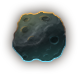
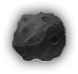
Asteroids are now colored according to team.

diff --git a/client/js/entities/asteroid.js b/client/js/entities/asteroid.js
@@ -1,4 +1,6 @@
 var astroid_assets = ["assets/astroid_1.png", "assets/astroid_2.png", "assets/astroid_3.png", "assets/astroid_4.png"]
+var astroid_assets_t0 = ["assets/astroid_1_t0.png", "assets/astroid_2_t0.png", "assets/astroid_3_t0.png", "assets/astroid_4_t0.png"]
+var astroid_assets_t1 = ["assets/astroid_1_t1.png", "assets/astroid_2_t1.png", "assets/astroid_3_t1.png", "assets/astroid_4_t1.png"]
 
 Asteroid.prototype = Object.create(Particle.prototype);
 Asteroid.prototype.constructor = Asteroid;
@@ -12,15 +14,32 @@ function Asteroid(eid, state) {
 }
 
 Asteroid.prototype.init_draw = function(state) {
+	this.asset_index = Math.floor(Math.random()*astroid_assets.length);
 	this.drawable = canvas.display.image({
 		x: this.x,
 		y: this.y,
 		origin: {x: "center", y: "center"},
-		image: astroid_assets[Math.floor(Math.random()*astroid_assets.length)],
+		image: astroid_assets[this.asset_index],
 		width: 2*state.r,
-		height: 2*state.r,
-		shadow: "0px 0px 100px #ecaf4f"
+		height: 2*state.r
 		}).add();
+	this.drawable_t0 = canvas.display.image({
+		x: this.x,
+		y: this.y,
+		origin: {x: "center", y: "center"},
+		image: astroid_assets_t0[this.asset_index],
+		width: 2*state.r,
+		height: 2*state.r
+		}).add();
+	this.drawable_t1 = canvas.display.image({
+		x: this.x,
+		y: this.y,
+		origin: {x: "center", y: "center"},
+		image: astroid_assets_t1[this.asset_index],
+		width: 2*state.r,
+		height: 2*state.r
+		}).add();
+	this.drawable.image = this.updateImage(state.team);
 
 	this.drawable.rotateTo(Math.random()*360);
 }
@@ -28,6 +47,8 @@ Asteroid.prototype.init_draw = function(state) {
 Asteroid.prototype.draw = function() {
 	Particle.prototype.draw.call(this);
 	this.drawable.moveTo(this.x, this.y);
+	this.drawable_t0.moveTo(this.x, this.y);
+	this.drawable_t1.moveTo(this.x, this.y);
 }
 
 Asteroid.prototype.replicate = function(state) {
@@ -36,11 +57,20 @@ Asteroid.prototype.replicate = function(state) {
 	this.y = state.y;
     this.r = state.r;
 
-    if(state.active || true) {
-    	particles.spawn(this.x + (0.5 - Math.random())*state.r, this.y + (0.5 - Math.random())*state.r, state.velocity.x/100, state.velocity.y/100, 1.5+Math.random(), 300 + 200*Math.random(), "#ecaf4f");
+    this.drawable.image = this.updateImage(state.team);
+    if(state.team != null) {
+    	particles.spawn(this.x + (0.5 - Math.random())*state.r, this.y + (0.5 - Math.random())*state.r, state.velocity.x/100, state.velocity.y/100, 1.5+Math.random(), 300 + 200*Math.random(), team_colors[state.team%2]);
     }
 }
 
 Asteroid.prototype.destroy = function() {
 	this.drawable.remove();
+	this.drawable_t1.remove();
+	this.drawable_t2.remove();
+}
+
+Asteroid.prototype.updateImage = function(team) {
+	this.drawable.opacity = (team == null) ? 1 : 0;
+	this.drawable_t0.opacity = (team == 0) ? 1 : 0;
+	this.drawable_t1.opacity = (team == 1) ? 1 : 0;
 }

diff --git a/client/js/entities/tether_node.js b/client/js/entities/tether_node.js
@@ -20,6 +20,10 @@ TetherNode.prototype.init_draw = function(state) {
 	this.left_drawable = null;
 	this.right_drawable = null;
 
+	if(!state.team) {
+		state.team = 0;
+	}
+
 	if(this.left_eid in world_state) {
 		if(world_state[this.left_eid].entity_type == "player") {
 			this.left_drawable = canvas.display.line({
@@ -27,7 +31,7 @@ TetherNode.prototype.init_draw = function(state) {
 		        end: { x: this.x, y: this.y },
 		        stroke: "4px #ecaf4f",
 		        cap: "round",
-		        shadow: "0px 0px 6px #ecaf4f"
+		        shadow: "0px 0px 6px " + team_colors[state.team]
     		}).add();
 		}
 	}
@@ -38,7 +42,7 @@ TetherNode.prototype.init_draw = function(state) {
 			        end: { x: world_state[this.right_eid].x, y: world_state[this.right_eid].y },
 			        stroke: "4px #ecaf4f",
 			        cap: "round",
-			        shadow: "0px 0px 6px #ecaf4f"
+			        shadow: "0px 0px 6px " + team_colors[state.team]
 	    		}).add();
 	}
 }

diff --git a/client/js/entities/player.js b/client/js/entities/player.js
@@ -1,5 +1,6 @@
 var ship_assets = ["assets/ship_1.png", "assets/ship_2.png"]
 var ship_trail_assets = ["assets/ship_1_trail.png", "assets/ship_2_trail.png"]
+var team_colors = ["#ecaf4f", "#66bfd6"]
 
 Player.prototype = Object.create(Particle.prototype);
 Player.prototype.constructor = Player;
